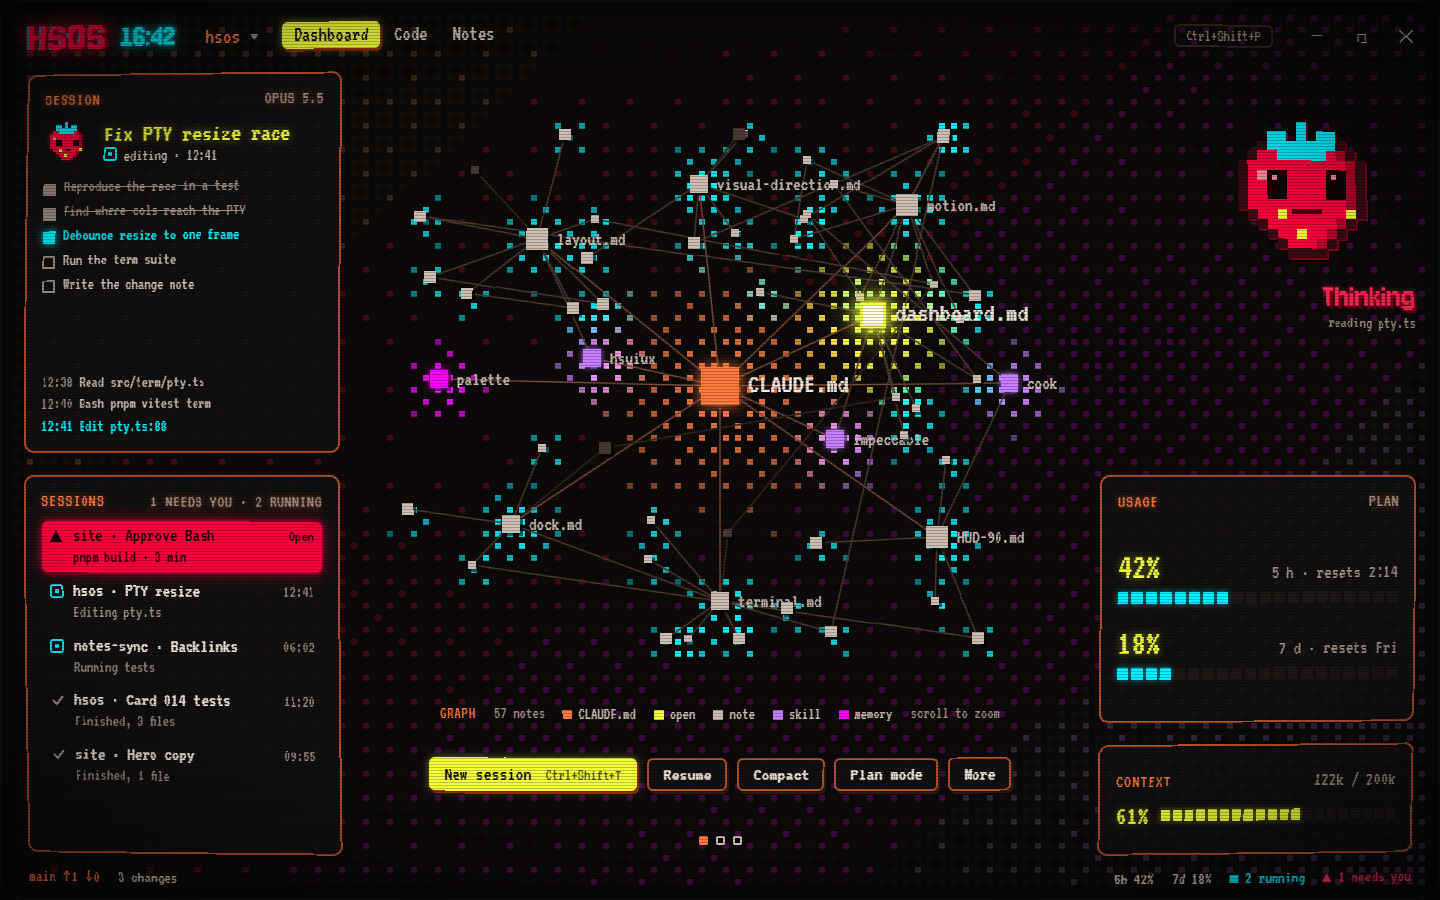
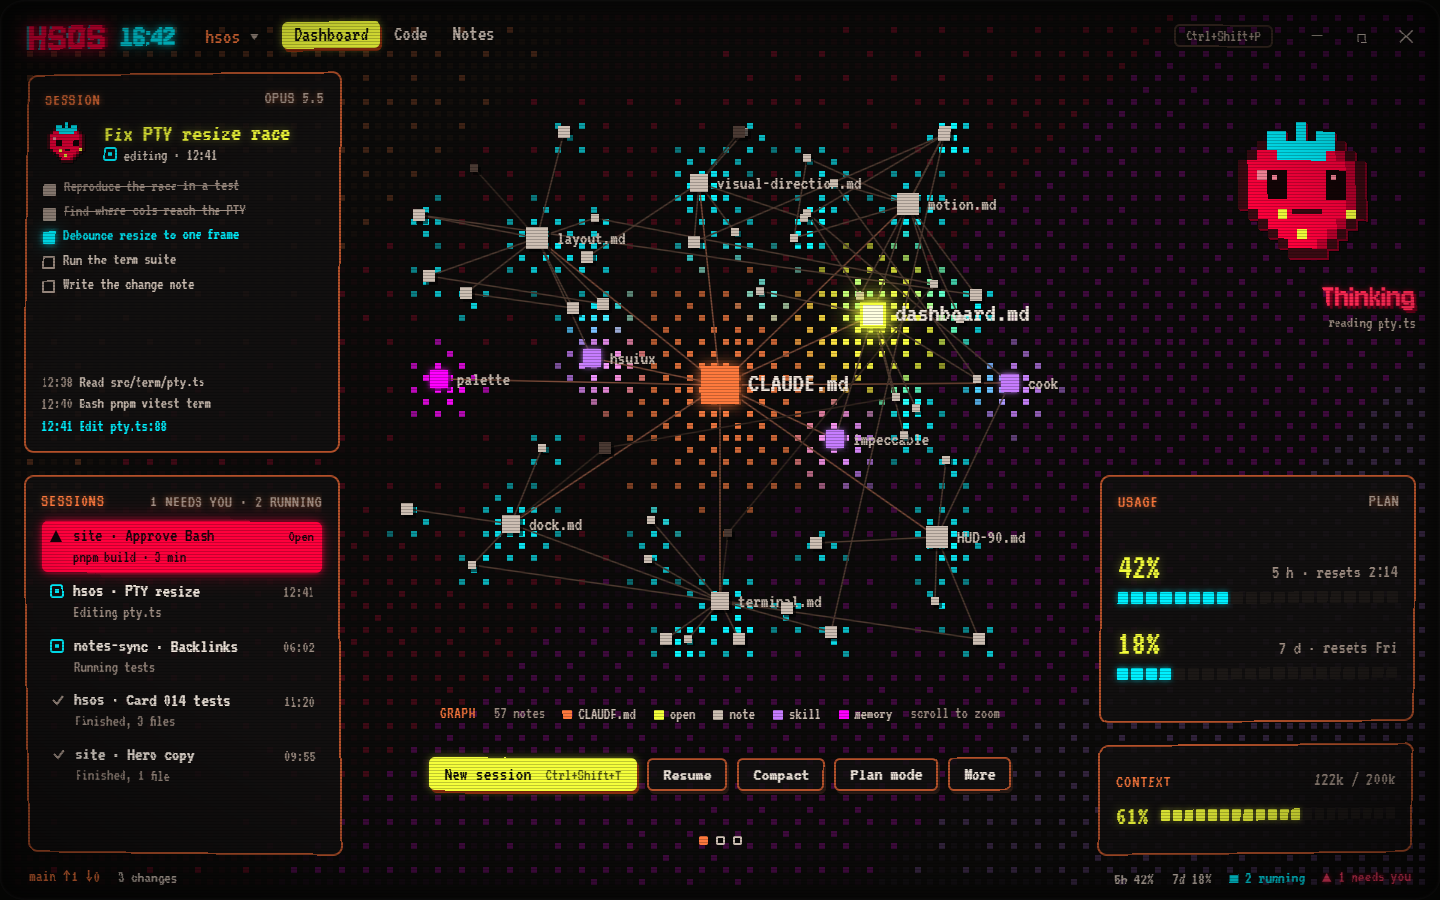
docs(design): let the graph pan across the whole window

diff --git a/design-round/dashboard/phosphor.html b/design-round/dashboard/phosphor.html
@@ -169,7 +169,11 @@ button { font: inherit; color: inherit; background: none; border: 0; cursor: poi
 .clock.flicker { opacity: .72; }
 #bg { transform: none; }
 #berry { cursor: pointer; }
-.graph canvas { flex: 1; min-height: 0; width: 100%; display: block; }
+/* the graph draws on a full-window layer between the background and the widgets; its home is the centre area */
+#graph { position: absolute; inset: 0; width: 100%; height: 100%; display: block; }
+.graph-area { flex: 1; min-height: 0; }
+.app { pointer-events: none; }
+.titlebar, .statusbar, .w, .quick button, .mascot, .edit-bar, .legend { pointer-events: auto; }
 [data-still="1"] .clock .colon { animation: none; }
 @media (prefers-reduced-motion: reduce) { .clock .colon { animation: none; } .brand.shimmer::after { animation: none; } }
 
@@ -192,6 +196,7 @@ button { font: inherit; color: inherit; background: none; border: 0; cursor: poi
 
 <div class="screen" id="screen">
   <canvas id="bg" width="1440" height="900" aria-hidden="true"></canvas>
+  <canvas id="graph" aria-label="Note graph, CLAUDE.md in the centre"></canvas>
   <div class="app">
     <header class="titlebar">
       <div class="brand" data-text="HSOS">HSOS</div>
@@ -239,7 +244,7 @@ button { font: inherit; color: inherit; background: none; border: 0; cursor: poi
         </section>
 
         <section class="free graph" style="grid-area: 1 / 3 / span 5 / span 4">
-          <canvas id="graph" aria-label="Local graph around dashboard.md"></canvas>
+          <div class="graph-area"></div>
           <div class="cap legend"><b>GRAPH</b><span class="count muted"></span>
             <span><i style="background:var(--terra)"></i>CLAUDE.md</span><span><i style="background:var(--yellow)"></i>open</span>
             <span><i style="background:var(--text-2)"></i>note</span>
@@ -501,8 +506,10 @@ function makeHalo(n) {
   return c;
 }
 function sizeGraph() {
-  gc.width = gc.offsetWidth; gc.height = gc.offsetHeight;
-  gs = Math.min(gc.width / 320, gc.height / 250); gox = (gc.width - 320 * gs) / 2; goy = (gc.height - 250 * gs) / 2;
+  const sr = screen.getBoundingClientRect(), k = 1440 / sr.width, ar = document.querySelector('.graph-area').getBoundingClientRect();
+  gc.width = 1440; gc.height = 900;
+  const rx = (ar.left - sr.left) * k, ry = (ar.top - sr.top) * k, rw = ar.width * k, rh = ar.height * k;
+  gs = Math.min(rw / 320, rh / 250); gox = rx + (rw - 320 * gs) / 2; goy = ry + (rh - 250 * gs) / 2;
 }
 // canvas pixel to graph units and back
 const toWorld = (px, py) => [cam.x + ((px - gox) / gs - 160) / cam.z, cam.y + ((py - goy) / gs - 125) / cam.z];
@@ -515,9 +522,9 @@ gc.addEventListener('wheel', e => {
   cam.x = wx - ((px - gox) / gs - 160) / cam.z; cam.y = wy - ((py - goy) / gs - 125) / cam.z;
   if (!animate) drawGraph();
 }, { passive: false });
-gc.addEventListener('pointerdown', e => { if (hover) return; drag.on = true; [drag.x, drag.y] = canvasPoint(e); gc.setPointerCapture(e.pointerId); });
+gc.addEventListener('pointerdown', e => { if (hover) return; drag.on = true; [drag.x, drag.y] = canvasPoint(e); drag.sx = drag.x; drag.sy = drag.y; gc.setPointerCapture(e.pointerId); });
 gc.addEventListener('pointermove', e => { if (!drag.on) return; const [px, py] = canvasPoint(e); cam.x -= (px - drag.x) / gs / cam.z; cam.y -= (py - drag.y) / gs / cam.z; drag.x = px; drag.y = py; });
-gc.addEventListener('pointerup', () => { drag.on = false; });
+gc.addEventListener('pointerup', e => { if (drag.on && animate && Math.hypot(drag.x - drag.sx, drag.y - drag.sy) < 4) BG.splash(e.clientX / BG.CELL, e.clientY / BG.CELL, 14, 3); drag.on = false; });
 gc.addEventListener('dblclick', () => { cam.x = 160; cam.y = 125; cam.z = 1; });
 function stepGraph(t) {
   const r = gc.getBoundingClientRect(), k = gc.width / r.width;
@@ -658,7 +665,7 @@ addEventListener('pointermove', e => {
   lastPX = cx; lastPY = cy;
 });
 addEventListener('pointerdown', e => {
-  if (!animate || e.target.closest('.w, button, #berry, .hint, .titlebar')) return;
+  if (!animate || e.target.closest('.w, button, #berry, .hint, .titlebar, #graph')) return;
   BG.splash(e.clientX / BG.CELL, e.clientY / BG.CELL, 14, 3);
 });
 /* one loop, at most 30 frames a second, paused while the window is hidden */

diff --git a/design-round/design-rounds.md b/design-round/design-rounds.md
@@ -65,3 +65,4 @@ Owner: the white eyes looked scary; the strawberry should turn its whole face to
 - Background: a 120 by 75 cell dot field. A ripple height field (pointer movement makes small waves, a click on empty space drops a big one, fast nodes make their own); a velocity field the pointer drags that carries colour like smoke; each graph node pours its halo colour into the field every frame, so halos follow, smear and trail as nodes move. Waves brighten dots and nudge them sideways. Rendered at 480 by 300 and scaled up pixelated.
 - Graph: halos are no longer drawn on the graph; only a fast pointer sweep pushes nodes, a slow or resting pointer can reach and pick one, and a hovered node holds still.
 - Note: headless Edge runs only one animation frame under virtual time, so stills come from `?still=1`, which simulates 60 steps.
+- Graph layer: the graph draws on a full-window canvas between the background and the widgets, so panning and zooming are no longer clipped by the centre cell. The centre area only sets the graph's home position. `.app` passes pointer events through empty space; frames, buttons, the mascot and the bars take them. A click without a drag on empty space drops a ripple; a drag pans.
